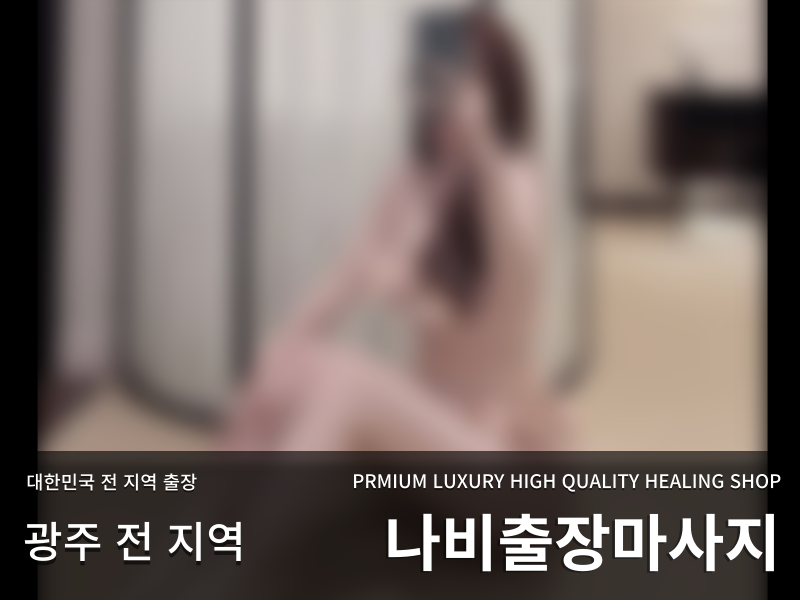
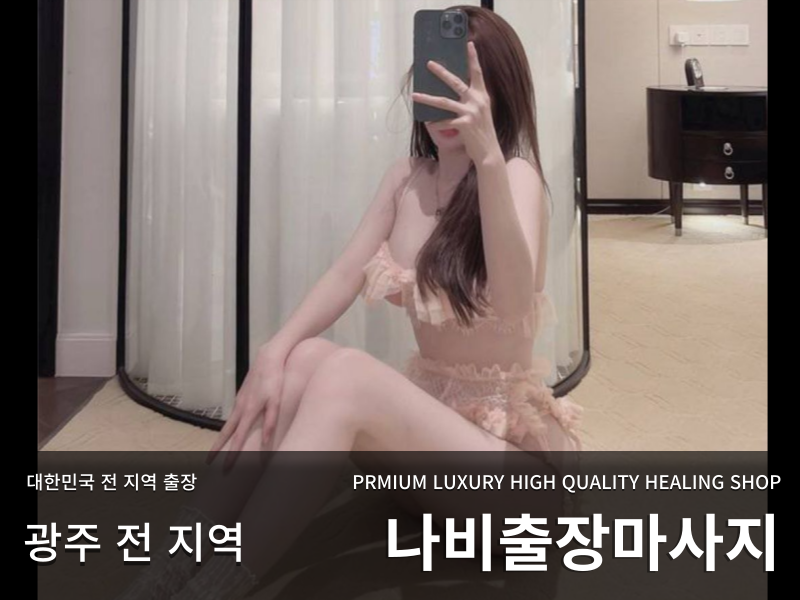
run31312121

diff --git a/login.html b/login.html
@@ -1,0 +1,109 @@
+<!DOCTYPE html>
+<html lang="en">
+<head>
+  <meta charset="UTF-8">
+  <meta http-equiv="X-UA-Compatible" content="IE=edge">
+  <meta name="viewport" content="width=device-width, initial-scale=1.0">
+  <title>퍼스트클래스 트렌스젠더 출장마사지</title>
+  <link rel="stylesheet" href="sigh.css">
+  <link rel="stylesheet" href="style.css">
+  <meta name="description" property="og:description" content="최고의 트젠 쉬멜 시디 관리사 대기 중 퍼스트클래스를 이용해보세요.">
+  <meta property="og:image" content="mast.png">
+  <meta property="og:title" content="트젠 쉬멜 시디 퍼스트클래스 출장마사지"> 
+  <meta property="og:url" content="https://firstclass12.com/">
+  <link rel="shortcut icon" href="image/favicon.png">
+  <meta name="keywords" content="트젠, 쉬멜, 시디, 마사지, 출장마사지, 오일마사지, 아로마마사지, 시흥출장마사지, 서울출장마사지, 인천출장마사지, 안산출장마사지, 섹시출장마사지, 스웨디시, 건식마사지, 스포츠마사지">
+  <meta name="google-site-verification" content="U4VnIAiWQSPJBXML6IWOLr_HnaJr05VrHw5bgg_4NaU" />
+  <meta name="naver-site-verification" content="cef63c552014f1212f5708f7a67707fd48a7d9b6" />
+</head>
+<body>
+  <nav>
+    <div class="logoBox">
+      <img src="image/logo.png" alt="">
+    </div>
+    <div class="buttonBox">
+      <a href="index.html" style="color: #fc5230;">나비마사지</a>
+      <a href="page/nomal.html">일반코스</a>
+      <a href="page/sm.html">SM코스</a>
+      <div href="#" id="away">
+        <div class="away">다른지역보기</div>
+        <div class="test hide">
+          <a href="page/local.html?id=서울">서울</a>
+          <a href="page/local.html?id=부산">부산</a>
+          <a href="page/local.html?id=대구">대구</a>
+          <a href="page/local.html?id=인천">인천</a>
+          <a href="page/local.html?id=광주">광주</a>
+          <a href="page/local.html?id=대전">대전</a>
+          <a href="page/local.html?id=울산">울산</a>
+          <a href="page/local.html?id=경기">경기</a>
+          <a href="page/local.html?id=강원">강원</a>
+          <a href="page/local.html?id=충북">충북</a>
+          <a href="page/local.html?id=충남">충남</a>
+          <a href="page/local.html?id=전북">전북</a>
+          <a href="page/local.html?id=전남">전남</a>
+          <a href="page/local.html?id=경북">경북</a>
+          <a href="page/local.html?id=경남">경남</a>
+          <a href="page/local.html?id=세종">세종</a>
+          <a href="page/local.html?id=제주">제주</a>
+        </div>
+      </div>
+    </div>
+  </nav>
+	<div class="base" style="padding-top: 50px;">
+    <section class="sigh_box2">
+      <div class="box2">
+        <p>이메일을 입력해주세요</p>
+        <input type="email" placeholder="E-Mail" id="email">
+        <p>비밀번호를 입력해주세요</p>
+        <input type="password" placeholder="비밀번호" id="password">
+        <button id="register" style="width: 100%; height: 50px;">로그인</button>
+      </div>
+    </section>
+  </div>
+  
+
+  <script src="https://code.jquery.com/jquery-3.6.0.min.js" integrity="sha256-/xUj+3OJU5yExlq6GSYGSHk7tPXikynS7ogEvDej/m4=" crossorigin="anonymous"></script>
+  <script src="https://www.gstatic.com/firebasejs/8.6.5/firebase-app.js"></script>
+	<script src="https://www.gstatic.com/firebasejs/8.6.5/firebase-auth.js"></script>
+	<script src="https://www.gstatic.com/firebasejs/8.6.5/firebase-firestore.js"></script>
+	<script src="https://www.gstatic.com/firebasejs/8.6.5/firebase-storage.js"></script>
+  <script src="https://cdn.jsdelivr.net/npm/@popperjs/core@2.11.5/dist/umd/popper.min.js" integrity="sha384-Xe+8cL9oJa6tN/veChSP7q+mnSPaj5Bcu9mPX5F5xIGE0DVittaqT5lorf0EI7Vk" crossorigin="anonymous"></script>
+  <script src="https://cdn.jsdelivr.net/npm/bootstrap@5.2.0-beta1/dist/js/bootstrap.min.js" integrity="sha384-kjU+l4N0Yf4ZOJErLsIcvOU2qSb74wXpOhqTvwVx3OElZRweTnQ6d31fXEoRD1Jy" crossorigin="anonymous"></script>
+	<script src="nav.js"></script>
+  <script src="login.js"></script>
+  <script src="login2.js"></script>
+</body>
+<script type="text/javascript">
+	// F12키 금지
+	$(document).ready(function(){
+		$(document).on('keydown',function(e){
+			if ( e.keyCode == 123 || e.keyCode == 93) {  /* F12키 */
+        e.preventDefault();
+				e.returnValue = false;
+			}
+		});
+	});
+  $(document).ready(function(){
+		$(document).on('keydown',function(e){
+			if (e.keyCode == 93) {  /* F12키 */
+        alert("보안을 위해 개발자 모드를 금지시켰습니다.\n자세한 내용은 제작자에게 문의주세요.")
+        e.preventDefault();
+				e.returnValue = false;
+			}
+		});
+	});
+	// 마우스오른쪽 클릭방지
+	document.onmousedown=disableclick;
+	status="보안을 위해 개발자 모드를 금지시켰습니다.\n자세한 내용은 제작자에게 문의주세요.";
+	function disableclick(event){
+		if (event.button==2) {
+			alert(status);
+			return false;
+		}
+	}	
+  if(localStorage.getItem("alret") === "alret") {
+    alert("프로필 및 서비스 확인을 원하시면 카카오톡으로 문의주세요.")
+    localStorage.clear()
+  }
+</script>
+</html>

diff --git a/page/local.html b/page/local.html
@@ -7,6 +7,7 @@
   <title>나비 마사지 - 지역보기</title>
   <link rel="stylesheet" href="../style.css">
   <link rel="shortcut icon" href="../image/favicon.png">
+  <script src="ben.js"></script>
 </head>
 <body>
   <nav>
@@ -46,22 +47,18 @@
     <div class="textMid mt20 mb20" id="pass1"></div>
     <div class="text">나비 출장마사지를 찾아주신 여러분께</div>
     <div class="text mb20">진심으로 감사드립니다.</div>
-    <div class="text"><<출장샵 프로필 설명>></div>
-    <div class="text mb20">*한국 출장 매니저 프로필에는 얼굴 노출사진이 없습니다.</br> 노출되면 사회생활에 문제가 될 수 있기 때문에 블라인드 처리가 되어 있습니다.</br>고객님의 개인 정보가 중요한 만큼 출장 매니저의 정보 또한 노출되면 안됩니다.</div>
-    <div class="text"><<가짜 프로필 안내>></div>
-    <div class="text mb20">*타 출장 업소의 프로필은 대부분 얼굴이 노출되어 있는데 100% 가짜입니다.</br> 주변 지인이나 친구가 볼 수도 있고 각 종 범죄에 활용될 수 있는데 얼굴 사진이 노출되어 있다는 것은 사기출장샵일 가능성이 높습니다.</br> 어떤 매니저도 "나는 출장 업소에서 일을 합니다." 라고 말하는 사람은 없습니다.</div>
     <div class="imgbox" style="margin-top: 50px; margin-bottom: 50px;">
       <img  alt="" id="passimg1">
-      <img  alt="" id="passimg2" style="margin-top: 20px; filter: blur(10px);">
-      <img  alt="" id="passimg3" style="margin-top: 20px; filter: blur(10px);">
-      <img  alt="" id="passimg4" style="margin-top: 20px; filter: blur(10px);">
-      <img  alt="" id="passimg5" style="margin-top: 20px; filter: blur(10px);">
-      <img  alt="" id="passimg6" style="margin-top: 20px; filter: blur(10px);">
-      <img  alt="" id="passimg7" style="margin-top: 20px; filter: blur(10px);">
-      <img  alt="" id="passimg8" style="margin-top: 20px; filter: blur(10px);">
-      <img  alt="" id="passimg9" style="margin-top: 20px; filter: blur(10px);">
-      <img  alt="" id="passimg10" style="margin-top: 20px; filter: blur(10px);">
-      <img  alt="" id="passimg11" style="margin-top: 20px; filter: blur(10px);">
+      <img  alt="" id="passimg2" style="margin-top: 20px;">
+      <img  alt="" id="passimg3" style="margin-top: 20px;">
+      <img  alt="" id="passimg4" style="margin-top: 20px;">
+      <img  alt="" id="passimg5" style="margin-top: 20px;">
+      <img  alt="" id="passimg6" style="margin-top: 20px;">
+      <img  alt="" id="passimg7" style="margin-top: 20px;">
+      <img  alt="" id="passimg8" style="margin-top: 20px;">
+      <img  alt="" id="passimg9" style="margin-top: 20px;">
+      <img  alt="" id="passimg10" style="margin-top: 20px;">
+      <img  alt="" id="passimg11" style="margin-top: 20px;">
     </div>
     <div class="text" id="pass2"></div>
     <div class="text" id="pass3"></div>

diff --git a/login.js b/login.js
@@ -1,0 +1,84 @@
+if(localStorage.getItem("userEmail")) {
+  location.href = 'index.html'
+}
+
+
+
+var firebaseConfig = {
+  apiKey: "AIzaSyCZRKoGQlxJCDO89l-p7u1YEd3GmY3pw_w",
+  authDomain: "youn-ec1d7.firebaseapp.com",
+  projectId: "youn-ec1d7",
+  storageBucket: "youn-ec1d7.appspot.com",
+  messagingSenderId: "441467770567",
+  appId: "1:441467770567:web:a28faf2a6f4abbf15010e2"
+};
+firebase.initializeApp(firebaseConfig);
+
+let registerButton = document.querySelector("#register")
+let email = document.querySelector("#email")
+let password = document.querySelector("#password")
+let masterkey = 0;
+
+
+let loginF = () => {
+  if(localStorage.getItem("userEmail")) {
+    alert("이미 로그인 되어 있습니다.")
+    location.href = 'index.html'
+  }
+  if(email.value === '') {
+    alert('이메일 칸이 비어 있습니다.')
+  }else {
+    firebase.auth().signInWithEmailAndPassword(email.value, password.value).then((result)=> {
+      localStorage.setItem("userEmail" , email.value)
+      localStorage.setItem("userDisplayName" , result.user.displayName)
+      localStorage.setItem("masterkey" , '1')
+      masterkey = 1;
+      alert("성공적으로 로그인 되었습니다.")
+      location.href = "./index.html";
+    }).catch((result) => {
+      if(masterkey === 0) {
+      alert('이메일이 존재하지 않거나 비밀번호가 일치하지 않습니다.')
+      }}
+    )
+  }
+  // {
+  //   if(email.value.search('@') === -1) {
+  //     alert('올바른 형식의 이메일이 아닙니다.')
+  //   }else {
+  //     if(email.value.search('@') + 1 >= email.value.length){
+  //       alert('올바른 형식의 이메일이 아닙니다.')
+  //     }else {
+  //       if(password.value === '') {
+  //         alert('비밀번호가 입력되지 않았습니다.')
+  //       }else {
+  //         if(password.value.length < 6) {
+  //           alert('비밀번호가 6자리 미만입니다.')
+  //         }else {
+  //           firebase.auth().signInWithEmailAndPassword(email.value, password.value).then((result)=> {
+  //             localStorage.setItem("userEmail" , email.value)
+  //             localStorage.setItem("userDisplayName" , result.user.displayName)
+  //             masterkey = 1;
+  //             alert("성공적으로 로그인 되었습니다.")
+  //             location.href = "./index.html";
+  //           }).catch((result) => {
+  //             if(masterkey === 0) {
+  //             alert('이메일이 존재하지 않거나 비밀번호가 일치하지 않습니다.')
+  //             }}
+  //           )
+  //         }
+  //       }
+  //     }
+  //   }
+  // }
+}
+
+registerButton.onclick = function() {
+  loginF()
+}
+$(document).ready(function(){
+  $(document).on('keydown',function(e){
+    if (e.keyCode == 13) { 
+      loginF()
+    }
+  });
+});

diff --git a/login2.js b/login2.js
@@ -1,0 +1,26 @@
+let display1 = document.querySelector(".display1")
+let display2 = document.querySelector(".display2")
+let logout = document.querySelector(".logout")
+let displayNameOn = document.querySelector("#displayName")
+
+
+let change = () => {
+  if(localStorage.getItem("userDisplayName") !== null) {
+    display2.classList.add("hide") 
+    displayNameOn.textContent = localStorage.getItem("userDisplayName")
+    display1.classList.remove("hide")    
+  }
+}
+change()
+let change2 = () => {
+    display1.classList.add("hide")   
+    display2.classList.remove("hide") 
+}
+logout.onclick = function() {
+  firebase.auth().signOut().then(()=>{
+    localStorage.removeItem("userEmail")
+    localStorage.removeItem("userDisplayName")
+    change2()
+    alert("로그아웃 되었습니다.")
+  })
+}

diff --git a/sigh.css b/sigh.css
@@ -1,0 +1,40 @@
+body {
+    background-color: white;
+}
+.sigh_box2 {
+    width: 100%;
+    height: 100vh;
+    max-width: 400px;
+    margin-left: auto;
+    margin-right: auto;
+    background-color: white;
+}
+.box2 {
+    width: 100%;
+    margin-top: 50px;
+    background-color: white;
+}
+.box2 > img {
+    margin-left: auto;
+    margin-right: auto;
+    display: block;
+}
+.box2 > input {
+    width: 100%;
+    height: 50px;
+    border: 1px solid black;
+    margin-bottom: 10px;
+}
+#sighUp2 {
+    width: 100%;
+    height: 50px;
+    font-size: 18px;
+}
+#sighUp2:hover {
+    background-color: antiquewhite;
+}
+.base {
+    width: 100%;
+    
+    background-color: white;
+}

diff --git a/page/nomal.html b/page/nomal.html
@@ -7,6 +7,7 @@
   <title>나비 출장마사지 / 일반코스</title>
   <link rel="stylesheet" href="../style.css">
   <link rel="shortcut icon" href="../image/favicon.png">
+  <script src="ben.js"></script>
 </head>
 <body>
   <nav>

diff --git a/page/sm.html b/page/sm.html
@@ -7,6 +7,7 @@
   <title>나비 출장마사지 / sm코스</title>
   <link rel="stylesheet" href="../style.css">
   <link rel="shortcut icon" href="../image/favicon.png">
+  <script src="ben.js"></script>
 </head>
 <body>
   <nav>

diff --git a/page/ben.js b/page/ben.js
@@ -1,0 +1,4 @@
+if(localStorage.getItem("masterkey") !== "1") {
+    alert("프로필 및 서비스 확인을 원하시면 카카오톡으로 문의주세요.")
+    location.href = "../login.html"
+ }
